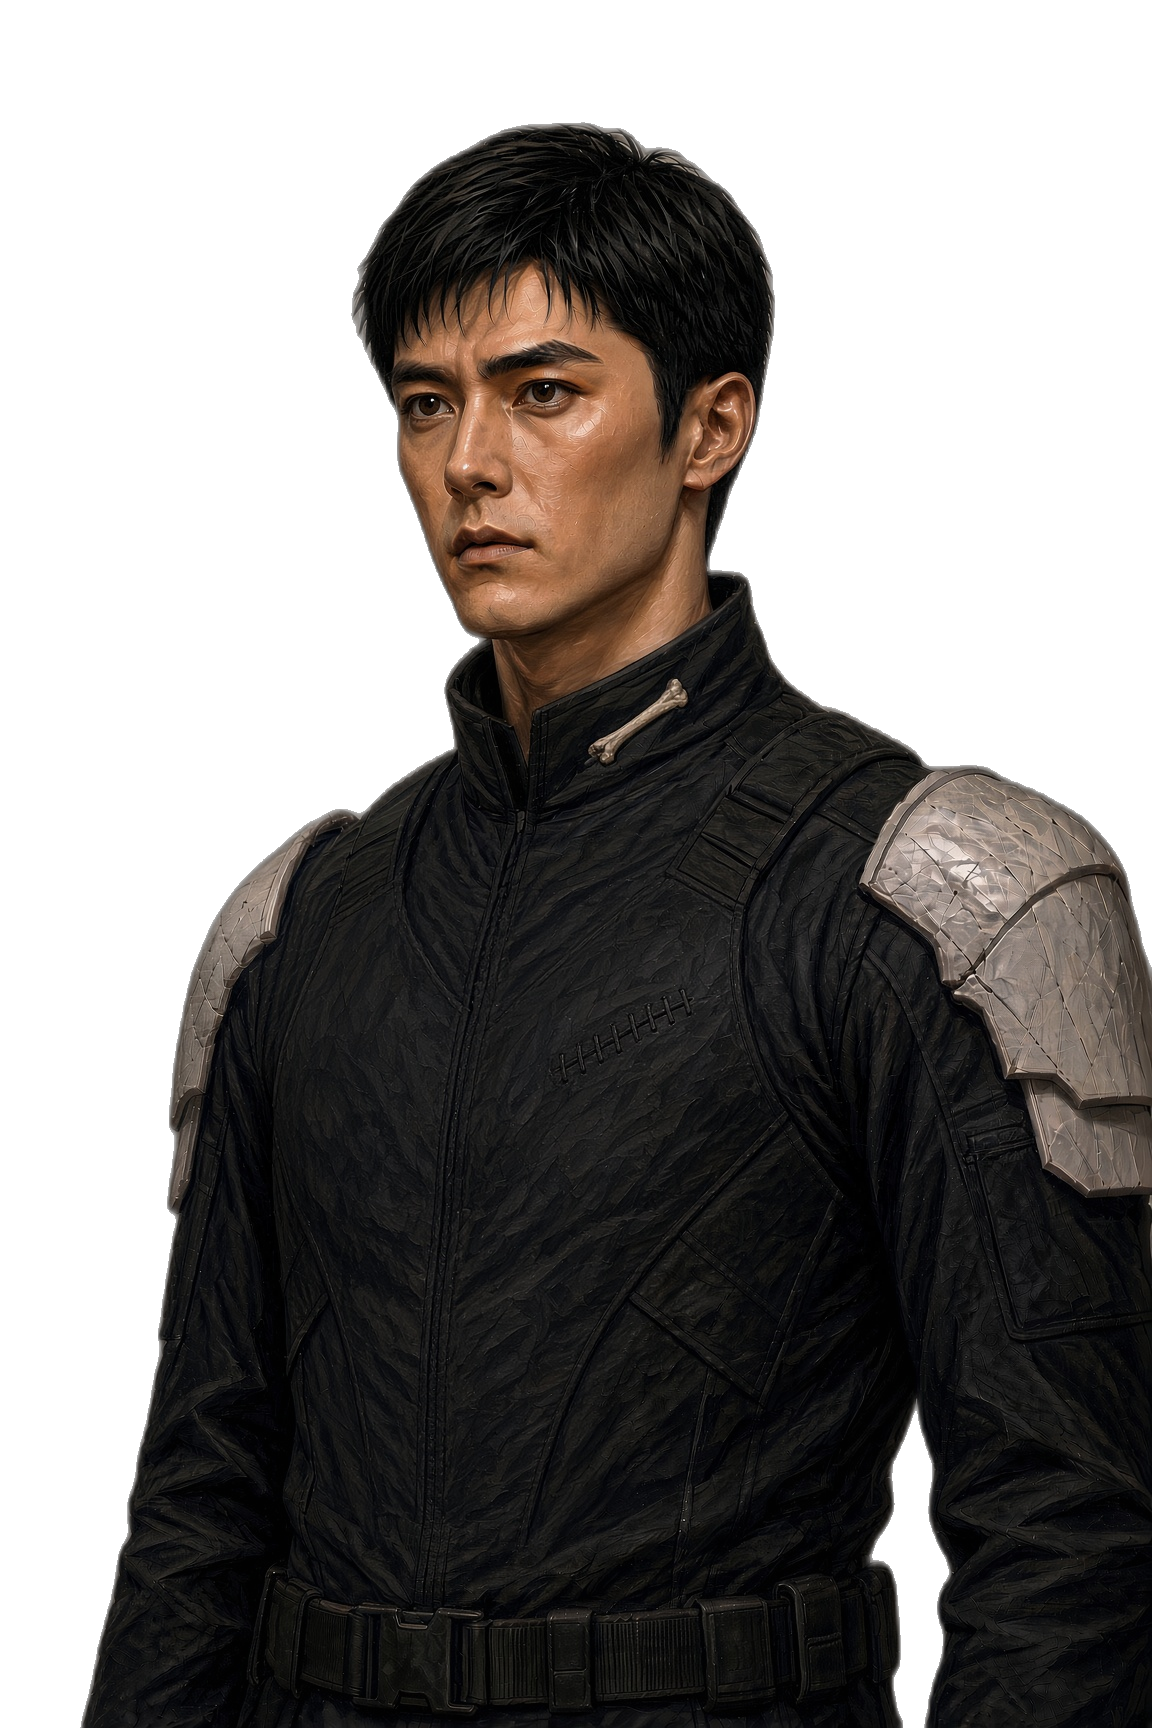
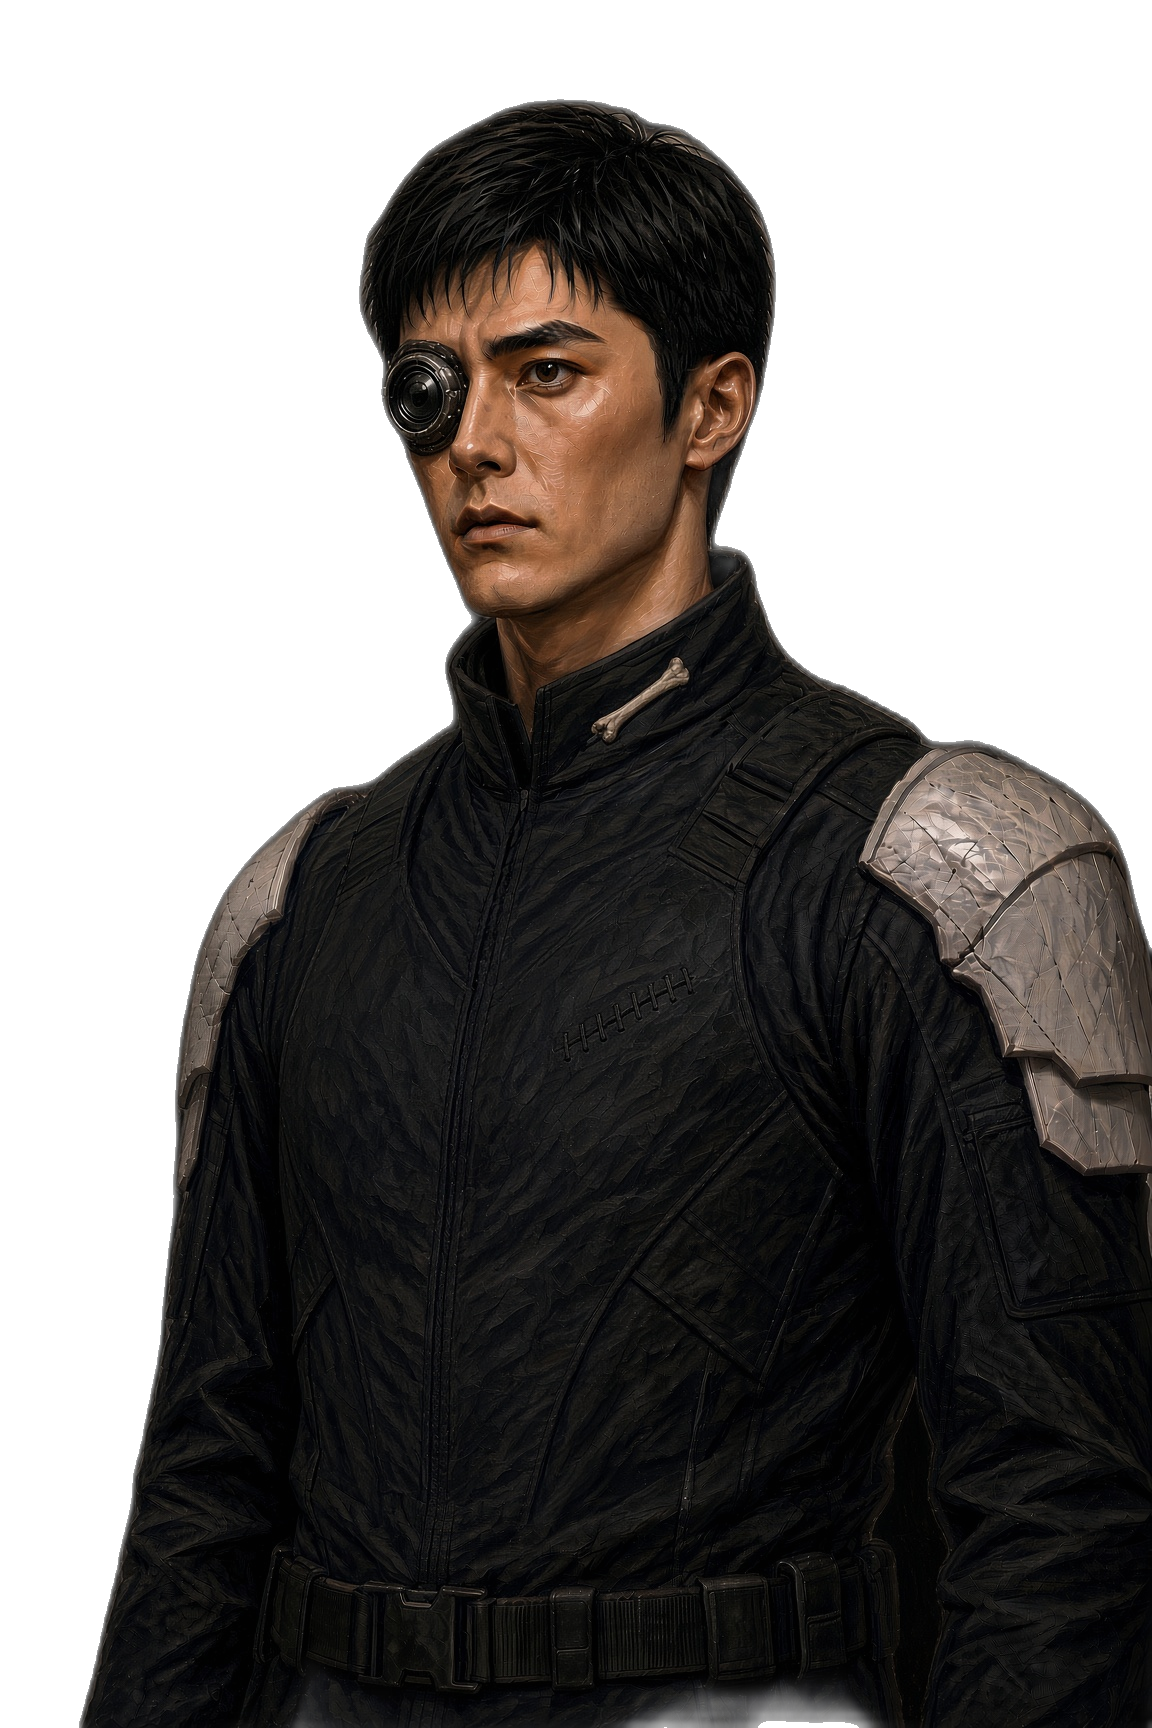
Ossar-Leutnante behalten das bionische Auge.

diff --git a/Division_Command_0.32c/web/index.html b/Division_Command_0.32c/web/index.html
@@ -614,7 +614,7 @@
   <script src="js/ai/bot.js?v=032d5"></script>
   <script src="js/ui/perf.js?v=030c"></script>
   <script src="js/ui/library.js?v=030n"></script>
-  <script src="js/ui/portraits.js?v=kit12"></script>
+  <script src="js/ui/portraits.js?v=kit13"></script>
   <script src="js/ui/app.js?v=kit2"></script>
   <script src="js/ui/hand-drag.js?v=032d2"></script>
   <script src="js/net.js?v=030c"></script>

diff --git a/Division_Command_0.32c/web/js/ui/portraits.js b/Division_Command_0.32c/web/js/ui/portraits.js
@@ -71,7 +71,7 @@
   };
   var RANK_AGES = 'fhr,lt,olt,hptm,maj,obstlt,obst,bg,genmj,genlt,gen,fm,gfm';
 
-  var VER = '17';
+  var VER = '18';
 
   var FACE_FILE = {
     f01: 'Vael/male/01.png',
